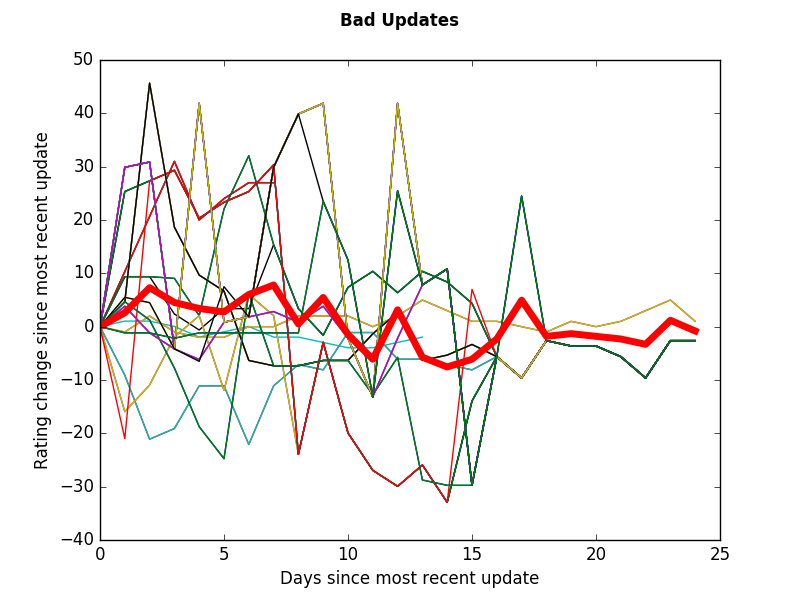
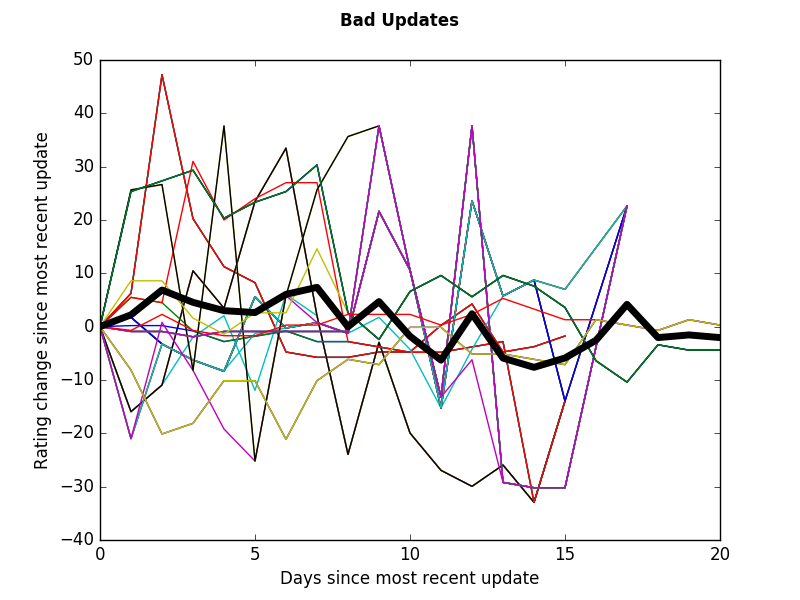
added photos

diff --git a/analysis/analysis.py b/analysis/analysis.py
@@ -168,10 +168,10 @@ def beforeAndAfter(data, days):
 	keys = sorted(list(ranking_change_total.keys()))
 	values = [ranking_change_total[key] for key in keys]
 	plt.plot(keys, values, linewidth=5)
-	fig.suptitle('Bad Updates', fontweight="bold")
+	fig.suptitle('Good Updates', fontweight="bold")
 	plt.xlabel('Days since most recent update')
 	plt.ylabel('Rating change since most recent update')
-	fig.savefig('bad_updates.png')
+	fig.savefig('good_updates.jpeg')
 	plt.show()
 	
 
@@ -195,7 +195,8 @@ def main(infile):
 	print(len(good_updates), len(bad_updates))
 	good_data = {app: data[app] for app in good_updates}
 	bad_data = {app: data[app] for app in bad_updates}
-	good = beforeAndAfter(bad_data, 24)
+	good = beforeAndAfter(good_data, 20)
+	print
 
 
 
